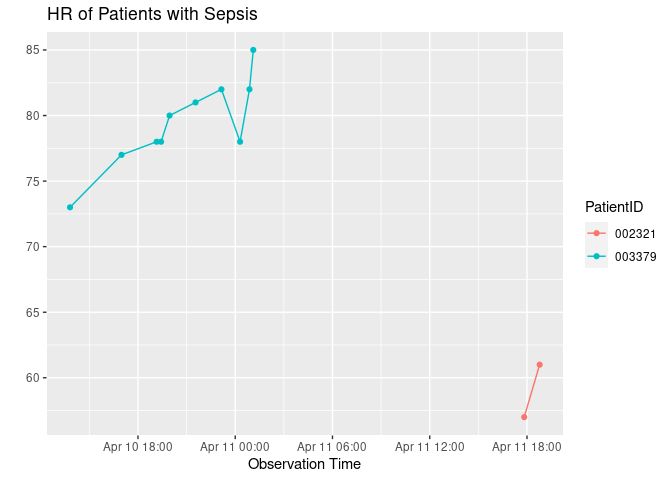
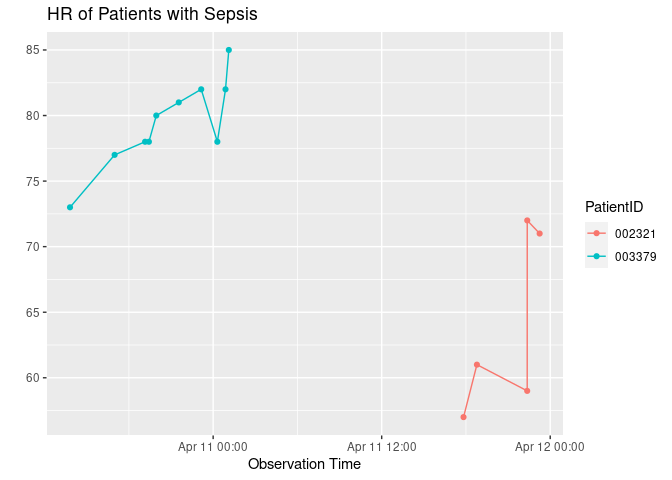
Updated report

diff --git a/README.md b/README.md
@@ -8,11 +8,11 @@ Yansong Wen
 
 \#TASK 4
 
-    [1] "2023-04-11 22:16:34 UTC"
+    [1] "2023-04-11 23:17:20 UTC"
 
 | PatientID |  HR | Temp | Resp |
 |:----------|----:|-----:|-----:|
-| 002321    |  61 |   NA |   12 |
+| 002321    |  71 |   NA |   13 |
 | 003379    |  85 |   NA |   32 |
 
 ![](README_files/figure-commonmark/unnamed-chunk-4-1.png)
@@ -23,7 +23,7 @@ Yansong Wen
 
 | PatientID | dHR | dTemp | dResp |
 |:----------|----:|------:|------:|
-| 000098    |   0 |    NA |     3 |
+| 000098    |   6 |    NA |     3 |
 | 000135    |  10 |   0.1 |     0 |
 | 000150    |   4 |    NA |     2 |
 | 000536    |  NA |    NA |    NA |
@@ -35,7 +35,7 @@ Yansong Wen
 | 002116    |  NA |    NA |    NA |
 | 002171    |  NA |    NA |     5 |
 | 002247    |  -2 |    NA |     1 |
-| 002321    |   4 |    NA |     1 |
+| 002321    |  -1 |    NA |     0 |
 | 002480    |   3 |    NA |    -1 |
 | 002819    |  NA |    NA |    NA |
 | 002945    |   0 |    NA |     1 |
@@ -46,19 +46,19 @@ Yansong Wen
 | 004768    |  NA |    NA |    NA |
 | 004772    |   7 |    NA |    -3 |
 | 004902    |  NA |    NA |    NA |
-| 004927    |  -1 |    NA |    -1 |
+| 004927    |   2 |    NA |     1 |
 | 004978    |  NA |    NA |    NA |
 | 005062    |  NA |    NA |    NA |
 | 005131    |  26 |    NA |     6 |
 | 005135    |   1 |    NA |     2 |
 | 005854    |  -5 |    NA |    -3 |
-| 005858    |  -2 |    NA |     2 |
+| 005858    |  -6 |    NA |    -1 |
 | 005946    |  -4 |    NA |     0 |
 | 005980    |  -3 |    NA |    -2 |
-| 006349    |  -5 |  -0.2 |     6 |
+| 006349    |   4 |  -0.1 |    -4 |
 | 006534    |   9 |    NA |    22 |
 | 006827    |  -1 |  -0.1 |    -2 |
-| 006987    |   3 |   0.2 |     0 |
+| 006987    |   0 |   0.2 |    -1 |
 | 007029    |   2 |    NA |     0 |
 | 007041    |  NA |    NA |   -12 |
 | 007541    |   0 |    NA |     0 |
@@ -67,7 +67,7 @@ Yansong Wen
 | 007742    |  NA |    NA |    NA |
 | 007753    |  -6 |    NA |     0 |
 | 008527    |  NA |    NA |    NA |
-| 008638    |  -1 |    NA |    -5 |
+| 008638    |   2 |    NA |   -15 |
 | 008639    |   3 |    NA |    -1 |
 | 008828    |   6 |   0.0 |    -5 |
 | 009301    |   4 |    NA |     0 |
